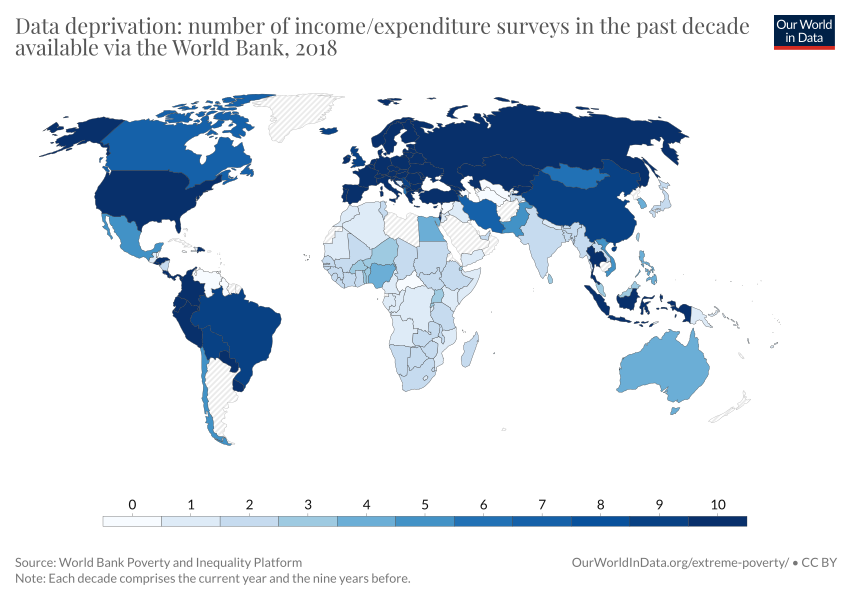
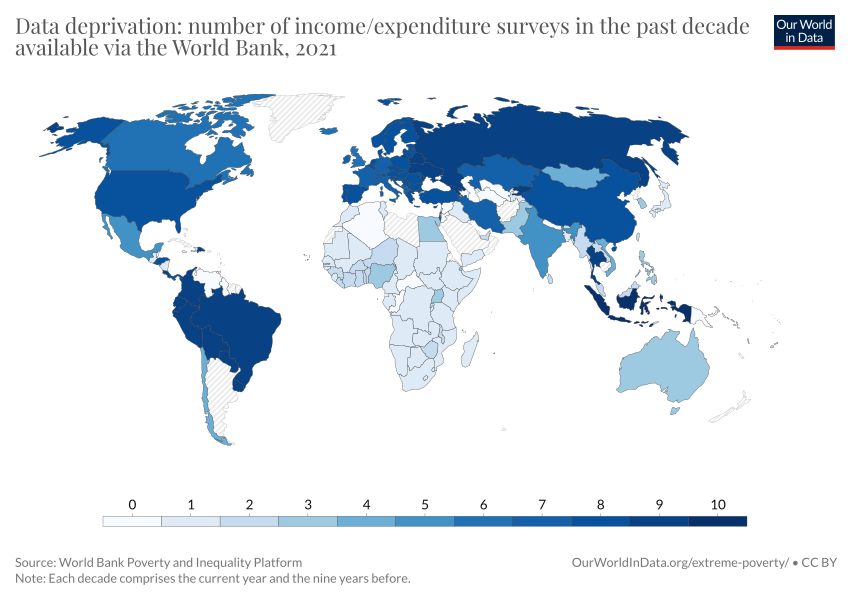
Deploy 2022-10-02T08:50:17.288Z Updating chart data-deprivation-poverty-surveys-per-decade

diff --git a/co2-emissions.html b/co2-emissions.html
@@ -1,4 +1,4 @@
-<!doctype html><html><head><meta name="viewport" content="width=device-width, initial-scale=1"/><title>CO2 emissions - Our World in Data</title><meta name="description" content="How much CO2 does the world emit? Which countries emit the most?"/><link rel="canonical" href="https://ourworldindata.org/co2-emissions"/><link rel="alternate" type="application/atom+xml" href="/atom.xml"/><link rel="apple-touch-icon" sizes="180x180" href="/apple-touch-icon.png"/><meta property="fb:app_id" content="1149943818390250"/><meta property="og:url" content="https://ourworldindata.org/co2-emissions"/><meta property="og:title" content="CO2 emissions"/><meta property="og:description" content="How much CO2 does the world emit? Which countries emit the most?"/><meta property="og:image" content="https://ourworldindata.org/uploads/2022/03/Screenshot-2022-03-04-at-16.51.31-768x480.png"/><meta property="og:site_name" content="Our World in Data"/><meta name="twitter:card" content="summary_large_image"/><meta name="twitter:site" content="@OurWorldInData"/><meta name="twitter:creator" content="@OurWorldInData"/><meta name="twitter:title" content="CO2 emissions"/><meta name="twitter:description" content="How much CO2 does the world emit? Which countries emit the most?"/><meta name="twitter:image" content="https://ourworldindata.org/uploads/2022/03/Screenshot-2022-03-04-at-16.51.31-768x480.png"/><link href="https://fonts.googleapis.com/css?family=Lato:300,400,400i,700,700i|Playfair+Display:400,700&amp;display=swap" rel="stylesheet"/><link rel="stylesheet" href="https://ourworldindata.org/assets/commons.css"/><link rel="stylesheet" href="https://ourworldindata.org/assets/owid.css"/><meta name="citation_title" content="CO₂ and Greenhouse Gas Emissions"/><meta name="citation_fulltext_html_url" content="https://ourworldindata.org/co2-and-other-greenhouse-gas-emissions"/><meta name="citation_fulltext_world_readable" content=""/><meta name="citation_publication_date" content="2020/05/11"/><meta name="citation_journal_title" content="Our World in Data"/><meta name="citation_journal_abbrev" content="Our World in Data"/><meta name="citation_author" content="Hannah Ritchie"/><meta name="citation_author" content="Max Roser"/><meta name="citation_author" content="Pablo Rosado"/></head><body class=""><header class="site-header"><div class="wrapper site-navigation-bar"><div class="site-logo"><a href="/">Our World<br/> in Data</a></div><nav class="site-navigation"><div class="topics-button-wrapper"><a href="/#entries" class="topics-button"><div class="label">Articles <br/><strong>by topic</strong></div><div class="icon"><svg width="12" height="6"><path d="M0,0 L12,0 L6,6 Z" fill="currentColor"></path></svg></div></a></div><div><div class="site-primary-navigation"><form class="HeaderSearch" action="/search" method="GET"><input type="search" name="q" placeholder="Search..."/><div class="icon"><svg aria-hidden="true" focusable="false" data-prefix="fas" data-icon="magnifying-glass" class="svg-inline--fa fa-magnifying-glass " role="img" xmlns="http://www.w3.org/2000/svg" viewBox="0 0 512 512"><path fill="currentColor" d="M416 208c0 45.9-14.9 88.3-40 122.7L502.6 457.4c12.5 12.5 12.5 32.8 0 45.3s-32.8 12.5-45.3 0L330.7 376c-34.4 25.2-76.8 40-122.7 40C93.1 416 0 322.9 0 208S93.1 0 208 0S416 93.1 416 208zM208 352c79.5 0 144-64.5 144-144s-64.5-144-144-144S64 128.5 64 208s64.5 144 144 144z"></path></svg></div></form><ul class="site-primary-links"><li><a href="/blog" data-track-note="header-navigation">Latest</a></li><li><a href="/about" data-track-note="header-navigation">About</a></li><li><a href="/donate" data-track-note="header-navigation">Donate</a></li></ul></div><div class="site-secondary-navigation"><ul class="site-secondary-links"><li><a href="/charts" data-track-note="header-navigation">All charts</a></li><li><a href="https://sdg-tracker.org" data-track-note="header-navigation">Sustainable Development Goals Tracker</a></li></ul></div></div></nav><div class="header-logos-wrapper"><a href="https://www.oxfordmartin.ox.ac.uk/global-development" class="oxford-logo"><img src="https://ourworldindata.org/oms-logo.svg" alt="Oxford Martin School logo"/></a><a href="https://global-change-data-lab.org/" class="gcdl-logo"><img src="https://ourworldindata.org/gcdl-logo.svg" alt="Global Change Data Lab logo"/></a></div><div class="mobile-site-navigation"><button data-track-note="mobile-search-button"><svg aria-hidden="true" focusable="false" data-prefix="fas" data-icon="magnifying-glass" class="svg-inline--fa fa-magnifying-glass " role="img" xmlns="http://www.w3.org/2000/svg" viewBox="0 0 512 512"><path fill="currentColor" d="M416 208c0 45.9-14.9 88.3-40 122.7L502.6 457.4c12.5 12.5 12.5 32.8 0 45.3s-32.8 12.5-45.3 0L330.7 376c-34.4 25.2-76.8 40-122.7 40C93.1 416 0 322.9 0 208S93.1 0 208 0S416 93.1 416 208zM208 352c79.5 0 144-64.5 144-144s-64.5-144-144-144S64 128.5 64 208s64.5 144 144 144z"></path></svg></button><button data-track-note="mobile-newsletter-button"><svg aria-hidden="true" focusable="false" data-prefix="fas" data-icon="envelope-open-text" class="svg-inline--fa fa-envelope-open-text " role="img" xmlns="http://www.w3.org/2000/svg" viewBox="0 0 512 512"><path fill="currentColor" d="M215.4 96H144 107.8 96v8.8V144v40.4 89L.2 202.5c1.6-18.1 10.9-34.9 25.7-45.8L48 140.3V96c0-26.5 21.5-48 48-48h76.6l49.9-36.9C232.2 3.9 243.9 0 256 0s23.8 3.9 33.5 11L339.4 48H416c26.5 0 48 21.5 48 48v44.3l22.1 16.4c14.8 10.9 24.1 27.7 25.7 45.8L416 273.4v-89V144 104.8 96H404.2 368 296.6 215.4zM0 448V242.1L217.6 403.3c11.1 8.2 24.6 12.7 38.4 12.7s27.3-4.4 38.4-12.7L512 242.1V448v0c0 35.3-28.7 64-64 64H64c-35.3 0-64-28.7-64-64v0zM176 160H336c8.8 0 16 7.2 16 16s-7.2 16-16 16H176c-8.8 0-16-7.2-16-16s7.2-16 16-16zm0 64H336c8.8 0 16 7.2 16 16s-7.2 16-16 16H176c-8.8 0-16-7.2-16-16s7.2-16 16-16z"></path></svg></button><button data-track-note="mobile-hamburger-button"><svg aria-hidden="true" focusable="false" data-prefix="fas" data-icon="bars" class="svg-inline--fa fa-bars " role="img" xmlns="http://www.w3.org/2000/svg" viewBox="0 0 448 512"><path fill="currentColor" d="M0 96C0 78.3 14.3 64 32 64H416c17.7 0 32 14.3 32 32s-14.3 32-32 32H32C14.3 128 0 113.7 0 96zM0 256c0-17.7 14.3-32 32-32H416c17.7 0 32 14.3 32 32s-14.3 32-32 32H32c-17.7 0-32-14.3-32-32zM448 416c0 17.7-14.3 32-32 32H32c-17.7 0-32-14.3-32-32s14.3-32 32-32H416c17.7 0 32 14.3 32 32z"></path></svg></button></div></div></header><div class="alert-banner"><div class="content"><div class="text"><strong>COVID-19 vaccinations, cases, excess mortality, and much more</strong></div><a href="/coronavirus#explore-the-global-situation" data-track-note="covid-banner-click">Explore our COVID-19 data</a></div></div><main><article class="page with-sidebar large-banner"><div class="offset-header"><header class="article-header"><div class="article-titles"><h1 class="entry-title">CO2 emissions</h1><div class="breadcrumb"><a href="/">Home</a><span class="separator"><svg aria-hidden="true" focusable="false" data-prefix="fas" data-icon="angle-right" class="svg-inline--fa fa-angle-right " role="img" xmlns="http://www.w3.org/2000/svg" viewBox="0 0 320 512"><path fill="currentColor" d="M278.6 233.4c12.5 12.5 12.5 32.8 0 45.3l-160 160c-12.5 12.5-32.8 12.5-45.3 0s-12.5-32.8 0-45.3L210.7 256 73.4 118.6c-12.5-12.5-12.5-32.8 0-45.3s32.8-12.5 45.3 0l160 160z"></path></svg></span><a data-track-note="breadcrumb" href="/co2-and-other-greenhouse-gas-emissions">CO₂ and GHG Emissions</a><span class="separator"><svg aria-hidden="true" focusable="false" data-prefix="fas" data-icon="angle-right" class="svg-inline--fa fa-angle-right " role="img" xmlns="http://www.w3.org/2000/svg" viewBox="0 0 320 512"><path fill="currentColor" d="M278.6 233.4c12.5 12.5 12.5 32.8 0 45.3l-160 160c-12.5 12.5-32.8 12.5-45.3 0s-12.5-32.8 0-45.3L210.7 256 73.4 118.6c-12.5-12.5-12.5-32.8 0-45.3s32.8-12.5 45.3 0l160 160z"></path></svg></span><span>CO₂ emissions</span></div></div><div class="authors-byline"><a href="/team">by Hannah Ritchie and Max Roser</a></div><div class="tools"><a href="#licence"><svg aria-hidden="true" focusable="false" data-prefix="fab" data-icon="creative-commons" class="svg-inline--fa fa-creative-commons " role="img" xmlns="http://www.w3.org/2000/svg" viewBox="0 0 496 512"><path fill="currentColor" d="M245.83 214.87l-33.22 17.28c-9.43-19.58-25.24-19.93-27.46-19.93-22.13 0-33.22 14.61-33.22 43.84 0 23.57 9.21 43.84 33.22 43.84 14.47 0 24.65-7.09 30.57-21.26l30.55 15.5c-6.17 11.51-25.69 38.98-65.1 38.98-22.6 0-73.96-10.32-73.96-77.05 0-58.69 43-77.06 72.63-77.06 30.72-.01 52.7 11.95 65.99 35.86zm143.05 0l-32.78 17.28c-9.5-19.77-25.72-19.93-27.9-19.93-22.14 0-33.22 14.61-33.22 43.84 0 23.55 9.23 43.84 33.22 43.84 14.45 0 24.65-7.09 30.54-21.26l31 15.5c-2.1 3.75-21.39 38.98-65.09 38.98-22.69 0-73.96-9.87-73.96-77.05 0-58.67 42.97-77.06 72.63-77.06 30.71-.01 52.58 11.95 65.56 35.86zM247.56 8.05C104.74 8.05 0 123.11 0 256.05c0 138.49 113.6 248 247.56 248 129.93 0 248.44-100.87 248.44-248 0-137.87-106.62-248-248.44-248zm.87 450.81c-112.54 0-203.7-93.04-203.7-202.81 0-105.42 85.43-203.27 203.72-203.27 112.53 0 202.82 89.46 202.82 203.26-.01 121.69-99.68 202.82-202.84 202.82z"></path></svg>Reuse our work freely</a><a href="#citation"><svg aria-hidden="true" focusable="false" data-prefix="fas" data-icon="book" class="svg-inline--fa fa-book " role="img" xmlns="http://www.w3.org/2000/svg" viewBox="0 0 448 512"><path fill="currentColor" d="M96 0C43 0 0 43 0 96V416c0 53 43 96 96 96H384h32c17.7 0 32-14.3 32-32s-14.3-32-32-32V384c17.7 0 32-14.3 32-32V32c0-17.7-14.3-32-32-32H384 96zm0 384H352v64H96c-17.7 0-32-14.3-32-32s14.3-32 32-32zm32-240c0-8.8 7.2-16 16-16H336c8.8 0 16 7.2 16 16s-7.2 16-16 16H144c-8.8 0-16-7.2-16-16zm16 48H336c8.8 0 16 7.2 16 16s-7.2 16-16 16H144c-8.8 0-16-7.2-16-16s7.2-16 16-16z"></path></svg>Cite this research</a></div></header></div><div class="offset-subnavigation"><div class="site-subnavigation"><div class="site-subnavigation-scroll"><ul class="site-subnavigation-links"><li class="highlight"><a href="/co2-and-other-greenhouse-gas-emissions" data-track-note="co2-subnav-co2-and-ghg-emissions">CO₂ and GHG Emissions<svg aria-hidden="true" focusable="false" data-prefix="fas" data-icon="chevron-left" class="svg-inline--fa fa-chevron-left " role="img" xmlns="http://www.w3.org/2000/svg" viewBox="0 0 384 512"><path fill="currentColor" d="M41.4 233.4c-12.5 12.5-12.5 32.8 0 45.3l192 192c12.5 12.5 32.8 12.5 45.3 0s12.5-32.8 0-45.3L109.3 256 278.6 86.6c12.5-12.5 12.5-32.8 0-45.3s-32.8-12.5-45.3 0l-192 192z"></path></svg></a></li><li class=""><a href="/co2-and-other-greenhouse-gas-emissions#co2-and-greenhouse-gas-emissions-country-profiles" data-track-note="co2-subnav-by-country">By country</a></li><li class=""><a href="/explorers/co2" data-track-note="co2-subnav-co2-data-explorer">Data explorer</a></li><li class="current"><a href="/co2-emissions" data-track-note="co2-subnav-co2-emissions">CO₂ emissions</a></li><li class=""><a href="/emissions-by-fuel" data-track-note="co2-subnav-by-fuel">CO₂ by fuel</a></li><li class=""><a href="/greenhouse-gas-emissions" data-track-note="co2-subnav-ghg-emissions">GHG emissions</a></li><li class=""><a href="/emissions-by-sector" data-track-note="co2-subnav-by-sector">By sector</a></li><li class=""><a href="/atmospheric-concentrations" data-track-note="co2-subnav-atm-concentrations">Atmospheric concentrations</a></li><li class=""><a href="/explorers/climate-change" data-track-note="co2-subnav-climate-impacts">Climate impacts</a></li></ul></div></div></div><div class="content-wrapper"><div class="toc-wrapper"><aside class="entry-sidebar"><nav class="entry-toc"><ul><li><a href="#" data-track-note="toc-header">CO2 emissions</a></li><li class="section"><a href="#global-co2-emissions-from-fossil-fuels" data-track-note="toc-link">Global CO2 emissions from fossil fuels</a></li><li class="subsection"><a href="#global-co2-emissions-from-fossil-fuels-global-co2-emissions-from-fossil-fuels" data-track-note="toc-link">Global CO2 emissions from fossil fuels</a></li><li class="subsection"><a href="#global-co2-emissions-from-fossil-fuels-and-land-use-change" data-track-note="toc-link">Global CO2 emissions from fossil fuels and land use change</a></li><li class="subsection"><a href="#co2-emissions-by-region" data-track-note="toc-link">CO2 emissions by region</a></li><li class="section"><a href="#per-capita-co2-emissions" data-track-note="toc-link">Per capita CO2 emissions</a></li><li class="section"><a href="#annual-co2-emissions" data-track-note="toc-link">Annual CO2 emissions</a></li><li class="section"><a href="#annual-change-in-co2-emissions" data-track-note="toc-link">Annual change in CO2 emissions</a></li><li class="section"><a href="#cumulative-co2-emissions" data-track-note="toc-link">Cumulative CO2 emissions</a></li><li class="section"><a href="#consumption-based-trade-adjusted-emissions" data-track-note="toc-link">Consumption-based (trade-adjusted) emissions</a></li><li class="section"><a href="#decoupling-co2-emissions-from-economic-growth" data-track-note="toc-link">Decoupling CO₂ emissions from economic growth</a></li><li class="section"><a href="#global-inequalities-in-co2-emissions" data-track-note="toc-link">Global inequalities in CO2 emissions</a></li><li class="subsection"><a href="#global-inequalities-by-production" data-track-note="toc-link">Global inequalities by production</a></li><li class="subsection"><a href="#global-inequalities-by-consumption" data-track-note="toc-link">Global inequalities by consumption</a></li><li class="section"><a href="#how-do-we-measure-or-estimate-co2-emissions" data-track-note="toc-link">How do we measure or estimate CO2 emissions?</a></li><li class="section"><a href="#endnotes" data-track-note="toc-link">Endnotes</a></li><li class="section"><a href="#licence" data-track-note="toc-link">Licence</a></li><li class="section"><a href="#citation" data-track-note="toc-link">Citation</a></li></ul></nav><div class="toggle-toc"><button data-track-note="page-toggle-toc" aria-label="Open table of contents"><svg aria-hidden="true" focusable="false" data-prefix="fas" data-icon="bars" class="svg-inline--fa fa-bars " role="img" xmlns="http://www.w3.org/2000/svg" viewBox="0 0 448 512"><path fill="currentColor" d="M0 96C0 78.3 14.3 64 32 64H416c17.7 0 32 14.3 32 32s-14.3 32-32 32H32C14.3 128 0 113.7 0 96zM0 256c0-17.7 14.3-32 32-32H416c17.7 0 32 14.3 32 32s-14.3 32-32 32H32c-17.7 0-32-14.3-32-32zM448 416c0 17.7-14.3 32-32 32H32c-17.7 0-32-14.3-32-32s14.3-32 32-32H416c17.7 0 32 14.3 32 32z"></path></svg><span class="label">Contents</span></button></div></aside></div><div class="offset-content"><div class="content-and-footnotes"><div class="article-content"><section><div class="wp-block-columns is-style-sticky-right"><div class="wp-block-column"><p>You can&nbsp;<strong><a href="https://github.com/owid/co2-data">download</a></strong>&nbsp;our complete <em>Our World in Data</em> CO<sub>2</sub> and Greenhouse Gas Emissions database.</p><hr class="wp-block-separator"><p>Carbon dioxide emissions are the primary driver of global climate change. It’s widely recognised that to avoid the worst impacts of climate change, the world needs to urgently reduce emissions. But, how this responsibility is shared between regions, countries, and individuals has been an endless point of contention in international discussions. </p><p>This debate arises from the various ways in which emissions are compared: as annual emissions by country; emissions per person; historical contributions; and whether they adjust for traded goods and services. These metrics can tell very different stories. </p><p>We teamed up with the YouTube channel, <em>Kurzgesagt</em>, to produce a video which explored these different metrics in detail: <a href="https://www.youtube.com/watch?v=ipVxxxqwBQw">‘Who is responsible for climate change? – Who needs to fix it?’</a>. All of the data and research featured in this video is contained in this article: below we look in detail at the many ways emissions are broken down.</p><div class="wp-container-63393c1dc808d wp-block-group">    <div class="block-wrapper"><div class="wp-block-owid-prominent-link with-image" data-no-lightbox="true" data-style="is-style-thin" data-title="&nbsp;‘Who is responsible for climate change? – Who needs to fix it?’"><a href="https://www.youtube.com/watch?v=ipVxxxqwBQw"><figure><img width="768" height="433" src="https://ourworldindata.org/uploads/2020/06/CO2-Kurzgesagt-768x433.png" class="attachment-medium_large size-medium_large" alt="Co2 kurzgesagt" loading="lazy" srcset="https://ourworldindata.org/uploads/2020/06/CO2-Kurzgesagt-768x433.png 768w, https://ourworldindata.org/uploads/2020/06/CO2-Kurzgesagt-400x225.png 400w, https://ourworldindata.org/uploads/2020/06/CO2-Kurzgesagt-800x451.png 800w, https://ourworldindata.org/uploads/2020/06/CO2-Kurzgesagt-150x84.png 150w, https://ourworldindata.org/uploads/2020/06/CO2-Kurzgesagt.png 1422w" sizes="(max-width: 768px) 100vw, 768px" data-high-res-src="https://ourworldindata.org/uploads/2020/06/CO2-Kurzgesagt.png"></figure><div class="content-wrapper"><div class="content">
+<!doctype html><html><head><meta name="viewport" content="width=device-width, initial-scale=1"/><title>CO2 emissions - Our World in Data</title><meta name="description" content="How much CO2 does the world emit? Which countries emit the most?"/><link rel="canonical" href="https://ourworldindata.org/co2-emissions"/><link rel="alternate" type="application/atom+xml" href="/atom.xml"/><link rel="apple-touch-icon" sizes="180x180" href="/apple-touch-icon.png"/><meta property="fb:app_id" content="1149943818390250"/><meta property="og:url" content="https://ourworldindata.org/co2-emissions"/><meta property="og:title" content="CO2 emissions"/><meta property="og:description" content="How much CO2 does the world emit? Which countries emit the most?"/><meta property="og:image" content="https://ourworldindata.org/uploads/2022/03/Screenshot-2022-03-04-at-16.51.31-768x480.png"/><meta property="og:site_name" content="Our World in Data"/><meta name="twitter:card" content="summary_large_image"/><meta name="twitter:site" content="@OurWorldInData"/><meta name="twitter:creator" content="@OurWorldInData"/><meta name="twitter:title" content="CO2 emissions"/><meta name="twitter:description" content="How much CO2 does the world emit? Which countries emit the most?"/><meta name="twitter:image" content="https://ourworldindata.org/uploads/2022/03/Screenshot-2022-03-04-at-16.51.31-768x480.png"/><link href="https://fonts.googleapis.com/css?family=Lato:300,400,400i,700,700i|Playfair+Display:400,700&amp;display=swap" rel="stylesheet"/><link rel="stylesheet" href="https://ourworldindata.org/assets/commons.css"/><link rel="stylesheet" href="https://ourworldindata.org/assets/owid.css"/><meta name="citation_title" content="CO₂ and Greenhouse Gas Emissions"/><meta name="citation_fulltext_html_url" content="https://ourworldindata.org/co2-and-other-greenhouse-gas-emissions"/><meta name="citation_fulltext_world_readable" content=""/><meta name="citation_publication_date" content="2020/05/11"/><meta name="citation_journal_title" content="Our World in Data"/><meta name="citation_journal_abbrev" content="Our World in Data"/><meta name="citation_author" content="Hannah Ritchie"/><meta name="citation_author" content="Max Roser"/><meta name="citation_author" content="Pablo Rosado"/></head><body class=""><header class="site-header"><div class="wrapper site-navigation-bar"><div class="site-logo"><a href="/">Our World<br/> in Data</a></div><nav class="site-navigation"><div class="topics-button-wrapper"><a href="/#entries" class="topics-button"><div class="label">Articles <br/><strong>by topic</strong></div><div class="icon"><svg width="12" height="6"><path d="M0,0 L12,0 L6,6 Z" fill="currentColor"></path></svg></div></a></div><div><div class="site-primary-navigation"><form class="HeaderSearch" action="/search" method="GET"><input type="search" name="q" placeholder="Search..."/><div class="icon"><svg aria-hidden="true" focusable="false" data-prefix="fas" data-icon="magnifying-glass" class="svg-inline--fa fa-magnifying-glass " role="img" xmlns="http://www.w3.org/2000/svg" viewBox="0 0 512 512"><path fill="currentColor" d="M416 208c0 45.9-14.9 88.3-40 122.7L502.6 457.4c12.5 12.5 12.5 32.8 0 45.3s-32.8 12.5-45.3 0L330.7 376c-34.4 25.2-76.8 40-122.7 40C93.1 416 0 322.9 0 208S93.1 0 208 0S416 93.1 416 208zM208 352c79.5 0 144-64.5 144-144s-64.5-144-144-144S64 128.5 64 208s64.5 144 144 144z"></path></svg></div></form><ul class="site-primary-links"><li><a href="/blog" data-track-note="header-navigation">Latest</a></li><li><a href="/about" data-track-note="header-navigation">About</a></li><li><a href="/donate" data-track-note="header-navigation">Donate</a></li></ul></div><div class="site-secondary-navigation"><ul class="site-secondary-links"><li><a href="/charts" data-track-note="header-navigation">All charts</a></li><li><a href="https://sdg-tracker.org" data-track-note="header-navigation">Sustainable Development Goals Tracker</a></li></ul></div></div></nav><div class="header-logos-wrapper"><a href="https://www.oxfordmartin.ox.ac.uk/global-development" class="oxford-logo"><img src="https://ourworldindata.org/oms-logo.svg" alt="Oxford Martin School logo"/></a><a href="https://global-change-data-lab.org/" class="gcdl-logo"><img src="https://ourworldindata.org/gcdl-logo.svg" alt="Global Change Data Lab logo"/></a></div><div class="mobile-site-navigation"><button data-track-note="mobile-search-button"><svg aria-hidden="true" focusable="false" data-prefix="fas" data-icon="magnifying-glass" class="svg-inline--fa fa-magnifying-glass " role="img" xmlns="http://www.w3.org/2000/svg" viewBox="0 0 512 512"><path fill="currentColor" d="M416 208c0 45.9-14.9 88.3-40 122.7L502.6 457.4c12.5 12.5 12.5 32.8 0 45.3s-32.8 12.5-45.3 0L330.7 376c-34.4 25.2-76.8 40-122.7 40C93.1 416 0 322.9 0 208S93.1 0 208 0S416 93.1 416 208zM208 352c79.5 0 144-64.5 144-144s-64.5-144-144-144S64 128.5 64 208s64.5 144 144 144z"></path></svg></button><button data-track-note="mobile-newsletter-button"><svg aria-hidden="true" focusable="false" data-prefix="fas" data-icon="envelope-open-text" class="svg-inline--fa fa-envelope-open-text " role="img" xmlns="http://www.w3.org/2000/svg" viewBox="0 0 512 512"><path fill="currentColor" d="M215.4 96H144 107.8 96v8.8V144v40.4 89L.2 202.5c1.6-18.1 10.9-34.9 25.7-45.8L48 140.3V96c0-26.5 21.5-48 48-48h76.6l49.9-36.9C232.2 3.9 243.9 0 256 0s23.8 3.9 33.5 11L339.4 48H416c26.5 0 48 21.5 48 48v44.3l22.1 16.4c14.8 10.9 24.1 27.7 25.7 45.8L416 273.4v-89V144 104.8 96H404.2 368 296.6 215.4zM0 448V242.1L217.6 403.3c11.1 8.2 24.6 12.7 38.4 12.7s27.3-4.4 38.4-12.7L512 242.1V448v0c0 35.3-28.7 64-64 64H64c-35.3 0-64-28.7-64-64v0zM176 160H336c8.8 0 16 7.2 16 16s-7.2 16-16 16H176c-8.8 0-16-7.2-16-16s7.2-16 16-16zm0 64H336c8.8 0 16 7.2 16 16s-7.2 16-16 16H176c-8.8 0-16-7.2-16-16s7.2-16 16-16z"></path></svg></button><button data-track-note="mobile-hamburger-button"><svg aria-hidden="true" focusable="false" data-prefix="fas" data-icon="bars" class="svg-inline--fa fa-bars " role="img" xmlns="http://www.w3.org/2000/svg" viewBox="0 0 448 512"><path fill="currentColor" d="M0 96C0 78.3 14.3 64 32 64H416c17.7 0 32 14.3 32 32s-14.3 32-32 32H32C14.3 128 0 113.7 0 96zM0 256c0-17.7 14.3-32 32-32H416c17.7 0 32 14.3 32 32s-14.3 32-32 32H32c-17.7 0-32-14.3-32-32zM448 416c0 17.7-14.3 32-32 32H32c-17.7 0-32-14.3-32-32s14.3-32 32-32H416c17.7 0 32 14.3 32 32z"></path></svg></button></div></div></header><div class="alert-banner"><div class="content"><div class="text"><strong>COVID-19 vaccinations, cases, excess mortality, and much more</strong></div><a href="/coronavirus#explore-the-global-situation" data-track-note="covid-banner-click">Explore our COVID-19 data</a></div></div><main><article class="page with-sidebar large-banner"><div class="offset-header"><header class="article-header"><div class="article-titles"><h1 class="entry-title">CO2 emissions</h1><div class="breadcrumb"><a href="/">Home</a><span class="separator"><svg aria-hidden="true" focusable="false" data-prefix="fas" data-icon="angle-right" class="svg-inline--fa fa-angle-right " role="img" xmlns="http://www.w3.org/2000/svg" viewBox="0 0 320 512"><path fill="currentColor" d="M278.6 233.4c12.5 12.5 12.5 32.8 0 45.3l-160 160c-12.5 12.5-32.8 12.5-45.3 0s-12.5-32.8 0-45.3L210.7 256 73.4 118.6c-12.5-12.5-12.5-32.8 0-45.3s32.8-12.5 45.3 0l160 160z"></path></svg></span><a data-track-note="breadcrumb" href="/co2-and-other-greenhouse-gas-emissions">CO₂ and GHG Emissions</a><span class="separator"><svg aria-hidden="true" focusable="false" data-prefix="fas" data-icon="angle-right" class="svg-inline--fa fa-angle-right " role="img" xmlns="http://www.w3.org/2000/svg" viewBox="0 0 320 512"><path fill="currentColor" d="M278.6 233.4c12.5 12.5 12.5 32.8 0 45.3l-160 160c-12.5 12.5-32.8 12.5-45.3 0s-12.5-32.8 0-45.3L210.7 256 73.4 118.6c-12.5-12.5-12.5-32.8 0-45.3s32.8-12.5 45.3 0l160 160z"></path></svg></span><span>CO₂ emissions</span></div></div><div class="authors-byline"><a href="/team">by Hannah Ritchie and Max Roser</a></div><div class="tools"><a href="#licence"><svg aria-hidden="true" focusable="false" data-prefix="fab" data-icon="creative-commons" class="svg-inline--fa fa-creative-commons " role="img" xmlns="http://www.w3.org/2000/svg" viewBox="0 0 496 512"><path fill="currentColor" d="M245.83 214.87l-33.22 17.28c-9.43-19.58-25.24-19.93-27.46-19.93-22.13 0-33.22 14.61-33.22 43.84 0 23.57 9.21 43.84 33.22 43.84 14.47 0 24.65-7.09 30.57-21.26l30.55 15.5c-6.17 11.51-25.69 38.98-65.1 38.98-22.6 0-73.96-10.32-73.96-77.05 0-58.69 43-77.06 72.63-77.06 30.72-.01 52.7 11.95 65.99 35.86zm143.05 0l-32.78 17.28c-9.5-19.77-25.72-19.93-27.9-19.93-22.14 0-33.22 14.61-33.22 43.84 0 23.55 9.23 43.84 33.22 43.84 14.45 0 24.65-7.09 30.54-21.26l31 15.5c-2.1 3.75-21.39 38.98-65.09 38.98-22.69 0-73.96-9.87-73.96-77.05 0-58.67 42.97-77.06 72.63-77.06 30.71-.01 52.58 11.95 65.56 35.86zM247.56 8.05C104.74 8.05 0 123.11 0 256.05c0 138.49 113.6 248 247.56 248 129.93 0 248.44-100.87 248.44-248 0-137.87-106.62-248-248.44-248zm.87 450.81c-112.54 0-203.7-93.04-203.7-202.81 0-105.42 85.43-203.27 203.72-203.27 112.53 0 202.82 89.46 202.82 203.26-.01 121.69-99.68 202.82-202.84 202.82z"></path></svg>Reuse our work freely</a><a href="#citation"><svg aria-hidden="true" focusable="false" data-prefix="fas" data-icon="book" class="svg-inline--fa fa-book " role="img" xmlns="http://www.w3.org/2000/svg" viewBox="0 0 448 512"><path fill="currentColor" d="M96 0C43 0 0 43 0 96V416c0 53 43 96 96 96H384h32c17.7 0 32-14.3 32-32s-14.3-32-32-32V384c17.7 0 32-14.3 32-32V32c0-17.7-14.3-32-32-32H384 96zm0 384H352v64H96c-17.7 0-32-14.3-32-32s14.3-32 32-32zm32-240c0-8.8 7.2-16 16-16H336c8.8 0 16 7.2 16 16s-7.2 16-16 16H144c-8.8 0-16-7.2-16-16zm16 48H336c8.8 0 16 7.2 16 16s-7.2 16-16 16H144c-8.8 0-16-7.2-16-16s7.2-16 16-16z"></path></svg>Cite this research</a></div></header></div><div class="offset-subnavigation"><div class="site-subnavigation"><div class="site-subnavigation-scroll"><ul class="site-subnavigation-links"><li class="highlight"><a href="/co2-and-other-greenhouse-gas-emissions" data-track-note="co2-subnav-co2-and-ghg-emissions">CO₂ and GHG Emissions<svg aria-hidden="true" focusable="false" data-prefix="fas" data-icon="chevron-left" class="svg-inline--fa fa-chevron-left " role="img" xmlns="http://www.w3.org/2000/svg" viewBox="0 0 384 512"><path fill="currentColor" d="M41.4 233.4c-12.5 12.5-12.5 32.8 0 45.3l192 192c12.5 12.5 32.8 12.5 45.3 0s12.5-32.8 0-45.3L109.3 256 278.6 86.6c12.5-12.5 12.5-32.8 0-45.3s-32.8-12.5-45.3 0l-192 192z"></path></svg></a></li><li class=""><a href="/co2-and-other-greenhouse-gas-emissions#co2-and-greenhouse-gas-emissions-country-profiles" data-track-note="co2-subnav-by-country">By country</a></li><li class=""><a href="/explorers/co2" data-track-note="co2-subnav-co2-data-explorer">Data explorer</a></li><li class="current"><a href="/co2-emissions" data-track-note="co2-subnav-co2-emissions">CO₂ emissions</a></li><li class=""><a href="/emissions-by-fuel" data-track-note="co2-subnav-by-fuel">CO₂ by fuel</a></li><li class=""><a href="/greenhouse-gas-emissions" data-track-note="co2-subnav-ghg-emissions">GHG emissions</a></li><li class=""><a href="/emissions-by-sector" data-track-note="co2-subnav-by-sector">By sector</a></li><li class=""><a href="/atmospheric-concentrations" data-track-note="co2-subnav-atm-concentrations">Atmospheric concentrations</a></li><li class=""><a href="/explorers/climate-change" data-track-note="co2-subnav-climate-impacts">Climate impacts</a></li></ul></div></div></div><div class="content-wrapper"><div class="toc-wrapper"><aside class="entry-sidebar"><nav class="entry-toc"><ul><li><a href="#" data-track-note="toc-header">CO2 emissions</a></li><li class="section"><a href="#global-co2-emissions-from-fossil-fuels" data-track-note="toc-link">Global CO2 emissions from fossil fuels</a></li><li class="subsection"><a href="#global-co2-emissions-from-fossil-fuels-global-co2-emissions-from-fossil-fuels" data-track-note="toc-link">Global CO2 emissions from fossil fuels</a></li><li class="subsection"><a href="#global-co2-emissions-from-fossil-fuels-and-land-use-change" data-track-note="toc-link">Global CO2 emissions from fossil fuels and land use change</a></li><li class="subsection"><a href="#co2-emissions-by-region" data-track-note="toc-link">CO2 emissions by region</a></li><li class="section"><a href="#per-capita-co2-emissions" data-track-note="toc-link">Per capita CO2 emissions</a></li><li class="section"><a href="#annual-co2-emissions" data-track-note="toc-link">Annual CO2 emissions</a></li><li class="section"><a href="#annual-change-in-co2-emissions" data-track-note="toc-link">Annual change in CO2 emissions</a></li><li class="section"><a href="#cumulative-co2-emissions" data-track-note="toc-link">Cumulative CO2 emissions</a></li><li class="section"><a href="#consumption-based-trade-adjusted-emissions" data-track-note="toc-link">Consumption-based (trade-adjusted) emissions</a></li><li class="section"><a href="#decoupling-co2-emissions-from-economic-growth" data-track-note="toc-link">Decoupling CO₂ emissions from economic growth</a></li><li class="section"><a href="#global-inequalities-in-co2-emissions" data-track-note="toc-link">Global inequalities in CO2 emissions</a></li><li class="subsection"><a href="#global-inequalities-by-production" data-track-note="toc-link">Global inequalities by production</a></li><li class="subsection"><a href="#global-inequalities-by-consumption" data-track-note="toc-link">Global inequalities by consumption</a></li><li class="section"><a href="#how-do-we-measure-or-estimate-co2-emissions" data-track-note="toc-link">How do we measure or estimate CO2 emissions?</a></li><li class="section"><a href="#endnotes" data-track-note="toc-link">Endnotes</a></li><li class="section"><a href="#licence" data-track-note="toc-link">Licence</a></li><li class="section"><a href="#citation" data-track-note="toc-link">Citation</a></li></ul></nav><div class="toggle-toc"><button data-track-note="page-toggle-toc" aria-label="Open table of contents"><svg aria-hidden="true" focusable="false" data-prefix="fas" data-icon="bars" class="svg-inline--fa fa-bars " role="img" xmlns="http://www.w3.org/2000/svg" viewBox="0 0 448 512"><path fill="currentColor" d="M0 96C0 78.3 14.3 64 32 64H416c17.7 0 32 14.3 32 32s-14.3 32-32 32H32C14.3 128 0 113.7 0 96zM0 256c0-17.7 14.3-32 32-32H416c17.7 0 32 14.3 32 32s-14.3 32-32 32H32c-17.7 0-32-14.3-32-32zM448 416c0 17.7-14.3 32-32 32H32c-17.7 0-32-14.3-32-32s14.3-32 32-32H416c17.7 0 32 14.3 32 32z"></path></svg><span class="label">Contents</span></button></div></aside></div><div class="offset-content"><div class="content-and-footnotes"><div class="article-content"><section><div class="wp-block-columns is-style-sticky-right"><div class="wp-block-column"><p>You can&nbsp;<strong><a href="https://github.com/owid/co2-data">download</a></strong>&nbsp;our complete <em>Our World in Data</em> CO<sub>2</sub> and Greenhouse Gas Emissions database.</p><hr class="wp-block-separator"><p>Carbon dioxide emissions are the primary driver of global climate change. It’s widely recognised that to avoid the worst impacts of climate change, the world needs to urgently reduce emissions. But, how this responsibility is shared between regions, countries, and individuals has been an endless point of contention in international discussions. </p><p>This debate arises from the various ways in which emissions are compared: as annual emissions by country; emissions per person; historical contributions; and whether they adjust for traded goods and services. These metrics can tell very different stories. </p><p>We teamed up with the YouTube channel, <em>Kurzgesagt</em>, to produce a video which explored these different metrics in detail: <a href="https://www.youtube.com/watch?v=ipVxxxqwBQw">‘Who is responsible for climate change? – Who needs to fix it?’</a>. All of the data and research featured in this video is contained in this article: below we look in detail at the many ways emissions are broken down.</p><div class="wp-container-633950eea0e02 wp-block-group">    <div class="block-wrapper"><div class="wp-block-owid-prominent-link with-image" data-no-lightbox="true" data-style="is-style-thin" data-title="&nbsp;‘Who is responsible for climate change? – Who needs to fix it?’"><a href="https://www.youtube.com/watch?v=ipVxxxqwBQw"><figure><img width="768" height="433" src="https://ourworldindata.org/uploads/2020/06/CO2-Kurzgesagt-768x433.png" class="attachment-medium_large size-medium_large" alt="Co2 kurzgesagt" loading="lazy" srcset="https://ourworldindata.org/uploads/2020/06/CO2-Kurzgesagt-768x433.png 768w, https://ourworldindata.org/uploads/2020/06/CO2-Kurzgesagt-400x225.png 400w, https://ourworldindata.org/uploads/2020/06/CO2-Kurzgesagt-800x451.png 800w, https://ourworldindata.org/uploads/2020/06/CO2-Kurzgesagt-150x84.png 150w, https://ourworldindata.org/uploads/2020/06/CO2-Kurzgesagt.png 1422w" sizes="(max-width: 768px) 100vw, 768px" data-high-res-src="https://ourworldindata.org/uploads/2020/06/CO2-Kurzgesagt.png"></figure><div class="content-wrapper"><div class="content">
 
 <p>We teamed up with YouTube channel <em>Kurzgesagt</em> to make a video on comparisons of CO<sub>2</sub> emissions.</p>
 

diff --git a/extreme-poverty.html b/extreme-poverty.html
@@ -1489,7 +1489,7 @@ Uganda</td><td class="column-6">Same as 2008</td>
                     </a>
                 </figure></div></div></div><h3 id="what-are-the-main-limitations-of-world-bank-poverty-estimates">What are the main limitations of World Bank poverty estimates?<a class="deep-link" href="#what-are-the-main-limitations-of-world-bank-poverty-estimates"></a></h3><div class="wp-block-columns is-style-sticky-right"><div class="wp-block-column"><p>Above, we discussed the methodology used by the World Bank to measure extreme poverty. Here, we focus on the various limitations of this methodology. We follow the points discussed by Ferreira et al. (2016).<a id="ref-61" class="ref" href="#note-61"><sup>61</sup></a></p></div><div class="wp-block-column"><div class="wp-sticky-container"></div></div></div><div class="wp-block-columns is-style-sticky-right"><div class="wp-block-column"><h4 id="data-deprivation">Data deprivation<a class="deep-link" href="#data-deprivation"></a></h4></div><div class="wp-block-column"><div class="wp-sticky-container"></div></div></div><div class="wp-block-columns is-style-sticky-right"><div class="wp-block-column"><p>One of the key ingredients for the World Bank’s measurement of poverty are household surveys providing evidence about household consumption per head (or, in some cases, income per head).</p><p>The following map shows the availability of surveys used to construct the World Bank’s poverty estimates.</p><p>For all countries shown in grey in this map, there is not a single survey available to the World Bank in the last three decades. Many of these countries are rich countries in which extreme poverty is very low. But there is also missing data for some poorer countries, in which surely a considerable share of the population is living in extreme poverty.</p><p>As we can also see from this map, there are some countries with very few observations. This is the case for many African countries, where there is only one survey available in the last decade. This is extremely infrequent, even in comparison to Latin America and Central Asia, where many countries have almost annual surveys.</p><p>By moving the time slider below the map, you can see how many surveys are available in each decade. For individual countries, the World Bank publishes poverty estimates only for years in which household survey data is available. But for regional and global estimates, the World Bank publishes estimates every three years. Clearly, since not all countries have survey data for all years in which regional and global estimates are produced, the World Bank must rely on approximations. In their own words, they ‘line up’ country estimates to a reference year in order to produce regional and global totals.</p><p>The process of lining up estimates relies on interpolation for countries in which survey data are not available in particular years, but are available either before or after (or both). You can read more about this process in <a rel="noopener noreferrer" href="http://iresearch.worldbank.org/PovcalNet/methodology.aspx" target="_blank">PovcalNet</a>. The bottom line is that the accuracy of these approximations relies heavily on the availability of survey data—the more survey years are available for a country, the more accurate the approximation.<a id="ref-62" class="ref" href="#note-62"><sup>62</sup></a></p><p>For low and middle income countries without reliable survey data in any year (mainly countries in the Middle East and North Africa), the World Bank chooses not to publish country-specific estimates, but still includes an approximated number in the regional and global totals, by relying on alternative statistical techniques.<a id="ref-63" class="ref" href="#note-63"><sup>63</sup></a></p></div><div class="wp-block-column"><div class="wp-sticky-container"><figure data-grapher-src="https://ourworldindata.org/grapher/data-deprivation-poverty-surveys-per-decade" class="grapherPreview">
                     <a href="https://ourworldindata.org/grapher/data-deprivation-poverty-surveys-per-decade" target="_blank">
-                        <div><img src="https://ourworldindata.org/exports/data-deprivation-poverty-surveys-per-decade_v9_850x600.svg" width="850" height="600" loading="lazy" data-no-lightbox="" alt="Data deprivation poverty surveys per decade v9 850x600"></div>
+                        <div><img src="https://ourworldindata.org/exports/data-deprivation-poverty-surveys-per-decade_v10_850x600.svg" width="850" height="600" loading="lazy" data-no-lightbox="" alt="Data deprivation poverty surveys per decade v10 850x600"></div>
                         <div class="interactionNotice">
                             <span class="icon"><svg aria-hidden="true" focusable="false" data-prefix="fas" data-icon="hand-pointer" class="svg-inline--fa fa-hand-pointer fa-w-14" role="img" xmlns="http://www.w3.org/2000/svg" viewBox="0 0 448 617">
     <path fill="currentColor" d="M448,344.59v96a40.36,40.36,0,0,1-1.06,9.16l-32,136A40,40,0,0,1,376,616.59H168a40,40,0,0,1-32.35-16.47l-128-176a40,40,0,0,1,64.7-47.06L104,420.58v-276a40,40,0,0,1,80,0v200h8v-40a40,40,0,1,1,80,0v40h8v-24a40,40,0,1,1,80,0v24h8a40,40,0,1,1,80,0Zm-256,80h-8v96h8Zm88,0h-8v96h8Zm88,0h-8v96h8Z" transform="translate(0 -0.41)"></path>

diff --git a/energy-archive.html b/energy-archive.html
@@ -201,7 +201,7 @@
 
 
 
-<div class="wp-sticky-container"><div data-project="energy" class="wp-block-search-country-profile"></div><h5><strong>Our 12 most visited country profiles</strong></h5><div class="wp-container-63393c1b7a315 wp-block-group"><div class="wp-block-group__inner-container">
+<div class="wp-sticky-container"><div data-project="energy" class="wp-block-search-country-profile"></div><h5><strong>Our 12 most visited country profiles</strong></h5><div class="wp-container-633950ecd16f7 wp-block-group"><div class="wp-block-group__inner-container">
 <ul class="covid-country-tiles"><li><a href="https://ourworldindata.org/energy/country/united-states?country=~USA">United States</a></li><li><a href="https://ourworldindata.org/energy/country/united-kingdom?country=~GBR">United Kingdom</a></li><li><a href="https://ourworldindata.org/energy/country/china?country=~CHN">China</a></li><li><a href="https://ourworldindata.org/energy/country/india?country=~IND">India</a></li><li><a href="https://ourworldindata.org/energy/country/brazil?country=~BRA">Brazil</a></li><li><a href="https://ourworldindata.org/energy/country/south-africa?country=~ZAF">South Africa</a></li><li><a href="https://ourworldindata.org/energy/country/germany?country=~DEU">Germany</a></li><li><a href="https://ourworldindata.org/energy/country/spain?country=~ESP">Spain</a></li><li><a href="https://ourworldindata.org/energy/country/france?country=~FRA">France</a></li><li><a href="https://ourworldindata.org/energy/country/canada?country=~CAN">Canada</a></li><li><a href="https://ourworldindata.org/energy/country/australia?country=~AUS">Australia</a></li><li><a href="https://ourworldindata.org/energy/country/sweden?country=~SWE">Sweden</a></li></ul>
 </div></div></div></div>
 

diff --git a/co2-and-other-greenhouse-gas-emissions.html b/co2-and-other-greenhouse-gas-emissions.html
@@ -23,7 +23,7 @@
 
 
 
-<div class="wp-sticky-container"><div data-project="co2" class="wp-block-search-country-profile"></div><h5><strong>Our 12 most visited country profiles</strong></h5><div class="wp-container-63393c1de0d97 wp-block-group">
+<div class="wp-sticky-container"><div data-project="co2" class="wp-block-search-country-profile"></div><h5><strong>Our 12 most visited country profiles</strong></h5><div class="wp-container-633950eebc171 wp-block-group">
 <ul class="covid-country-tiles"><li><a href="https://ourworldindata.org/co2/country/united-states?country=~USA">United States</a></li><li><a href="https://ourworldindata.org/co2/country/united-kingdom?country=~GBR">United Kingdom</a></li><li><a href="https://ourworldindata.org/co2/country/china?country=~CHN">China</a></li><li><a href="https://ourworldindata.org/co2/country/india?country=~IND">India</a></li><li><a href="https://ourworldindata.org/co2/country/brazil?country=~BRA">Brazil</a></li><li><a href="https://ourworldindata.org/co2/country/south-africa?country=~ZAF">South Africa</a></li><li><a href="https://ourworldindata.org/co2/country/germany?country=~DEU">Germany</a></li><li><a href="https://ourworldindata.org/co2/country/spain?country=~ESP">Spain</a></li><li><a href="https://ourworldindata.org/co2/country/france?country=~FRA">France</a></li><li><a href="https://ourworldindata.org/co2/country/canada?country=~CAN">Canada</a></li><li><a href="https://ourworldindata.org/co2/country/australia?country=~AUS">Australia</a></li><li><a href="https://ourworldindata.org/co2/country/sweden?country=~SWE">Sweden</a></li></ul>
 </div></div></div>
 

diff --git a/democracy.html b/democracy.html
@@ -1862,7 +1862,7 @@ Justifies democracy characteristics</td>
 
 
 
-<div class="wp-container-63393c23dba4e wp-block-group">
+<div class="wp-container-633950f35168c wp-block-group">
 <ul><li><strong>full democracy</strong>: comprehensive extent of democracy, few weaknesses</li><li><strong>flawed democracy</strong>: some weaknesses in democratic institutions and culture</li><li><strong>hybrid regime</strong>: serious weaknesses in democratic institutions and culture</li><li><strong>authoritarian regime</strong>: few democratic institutions and little democratic culture</li></ul>
 </div>
 </div>

diff --git a/democracies-measurement.html b/democracies-measurement.html
@@ -531,7 +531,7 @@ Justifies democracy characteristics</td>
 
 
 
-<div class="wp-container-63393c146db10 wp-block-group">
+<div class="wp-container-633950e6895c5 wp-block-group">
 <ul><li><strong>full democracy</strong>: comprehensive extent of democracy, few weaknesses</li><li><strong>flawed democracy</strong>: some weaknesses in democratic institutions and culture</li><li><strong>hybrid regime</strong>: serious weaknesses in democratic institutions and culture</li><li><strong>authoritarian regime</strong>: few democratic institutions and little democratic culture</li></ul>
 </div>
 </div>

diff --git a/grapher/data-deprivation-poverty-surveys-per-decade.html b/grapher/data-deprivation-poverty-surveys-per-decade.html
@@ -5,7 +5,7 @@
 {
   "id": 328,
   "map": {
-    "time": 2018,
+    "time": "latest",
     "colorScale": {
       "baseColorScheme": "Blues",
       "binningStrategy": "manual",
@@ -253,7 +253,7 @@
     "max": 10,
     "min": 0
   },
-  "version": 9,
+  "version": 10,
   "hasMapTab": true,
   "originUrl": "https://ourworldindata.org/extreme-poverty/",
   "dimensions": [
